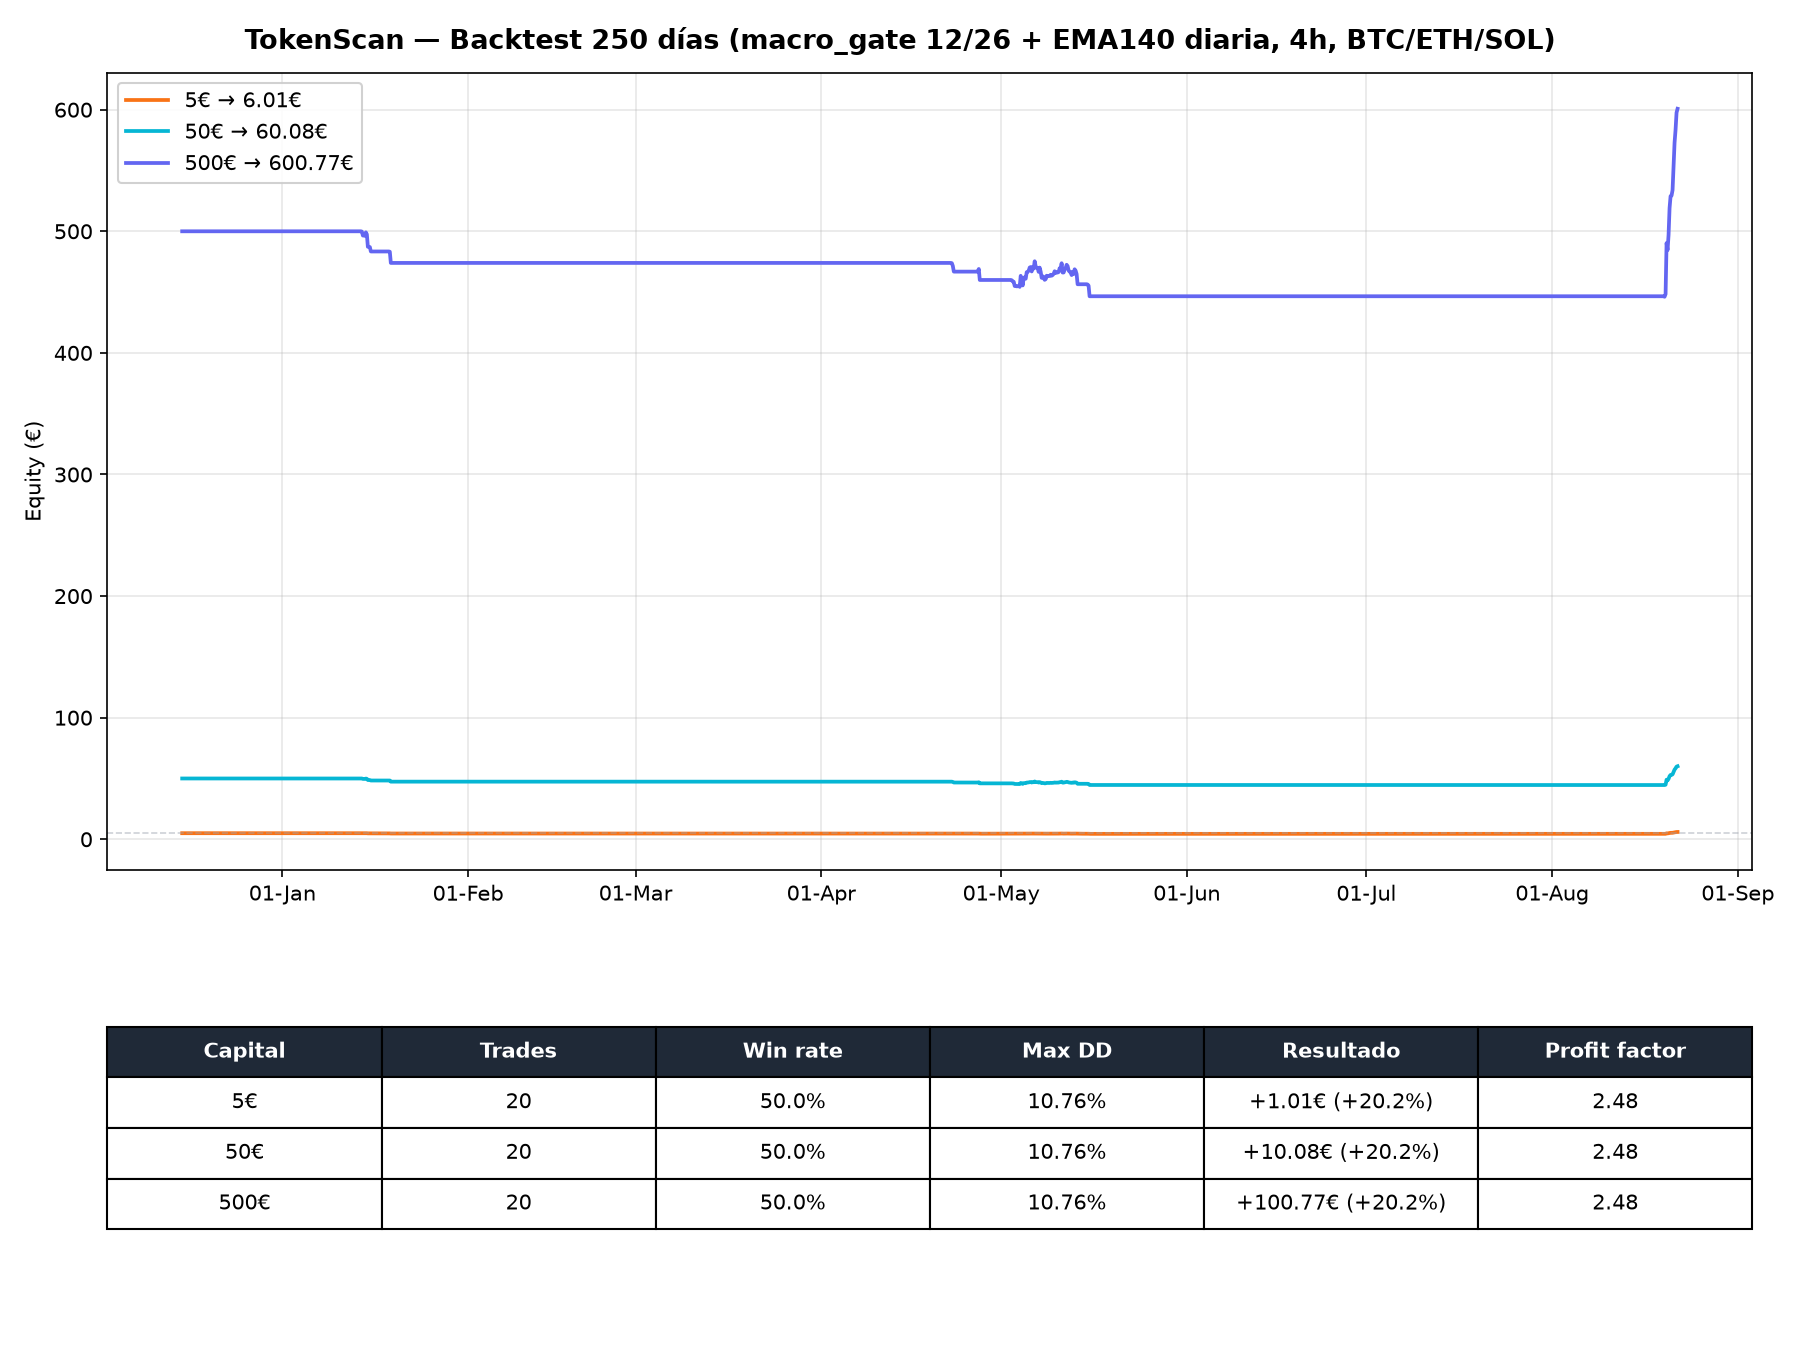
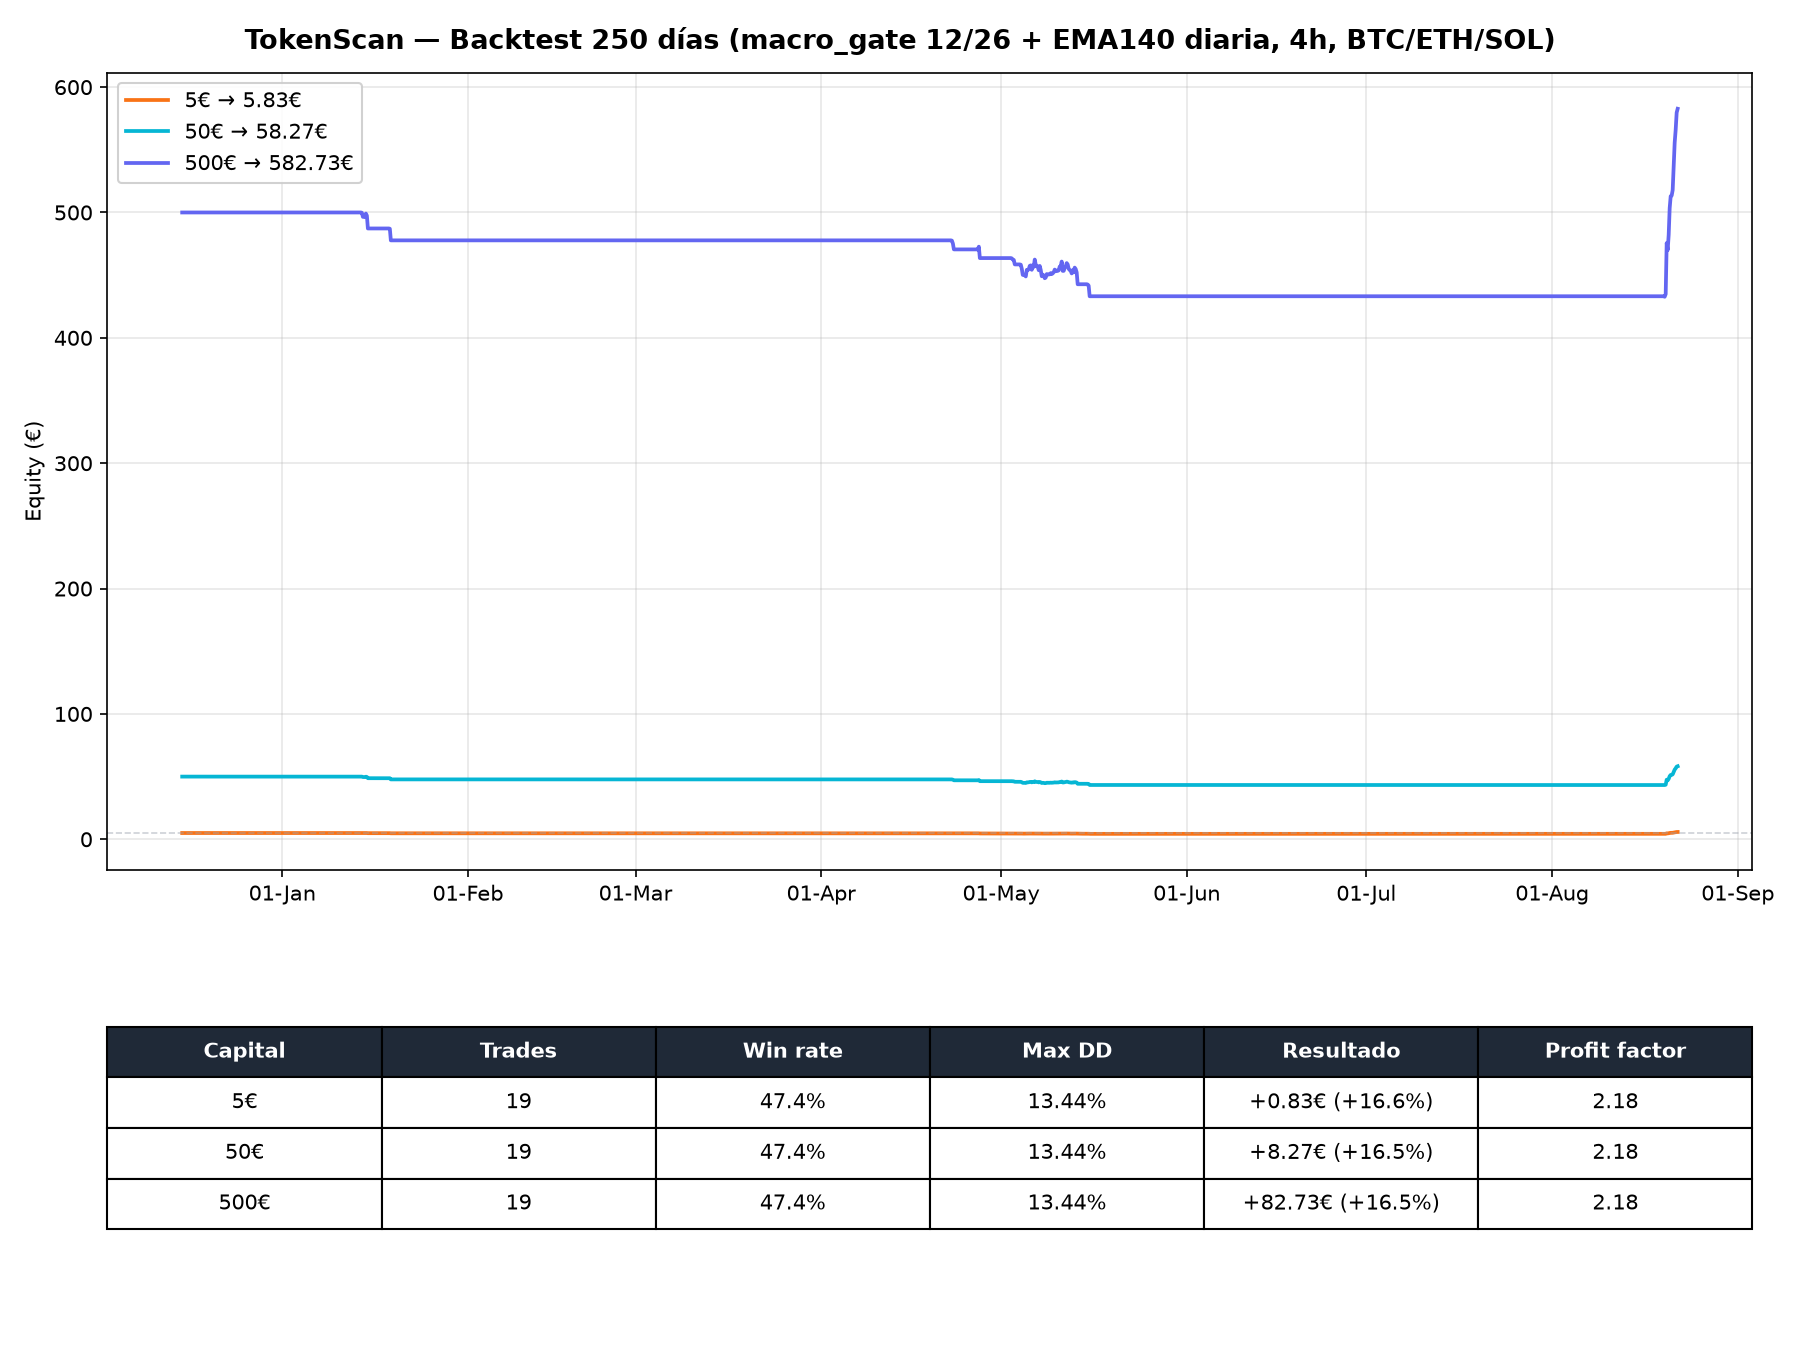
fix: paridad producción↔backtest (attrs['pair'] + 1000 velas diarias) y filtro Kaufman ER≥0.35
- market.py: fetch_ohlcv seteaba df.attrs['pair']; sin esto el gate macro en
  producción caía al fallback resample 1D (EMA distinta a la validada).
- agent.py: _inject_macro_daily usa 1000 velas 1d para que el EMA140 converja
  exacto y coincida con el backtest.
- strategies.py: MacroGate gana min_kaufman_er≥0.35 — descarta entradas en
  tendencia débil (los 'trades malos' que revierten en 1-3 velas).
- walk-forward real con histórico 1d completo: 25%→41% ventanas positivas y
  ret mediano -5.2%→0.0% (el 43% previo usaba caché incompleto).
- config.py/agent/config.yaml.example: parámetro min_kaufman_er=0.35.
- final_config.json regenerado (250d: +16.5%, 19 trades, PF 2.18, DSR 0.986;
  90d intacto +34.5%) + charts backtest actualizados.
- scripts/analyze_trades.py: diagnóstico reproducible de los trades reales.

diff --git a/scripts/analyze_trades.py b/scripts/analyze_trades.py
@@ -1,0 +1,136 @@
+"""Análisis de trades: identifica patrones de pérdida en los 20 trades reales.
+
+Usa el mismo setup que optimize_macro.py (CachedMarket con attrs y macro_daily
+real) para que los resultados sean idénticos a los validados.
+"""
+
+from __future__ import annotations
+
+import sys
+from pathlib import Path
+
+import pandas as pd
+
+sys.path.insert(0, str(Path(__file__).resolve().parents[1]))
+from tokenscan.backtest.engine import Backtester
+from tokenscan.config import Settings
+from tokenscan.quant.regime import detect_regime
+from tokenscan.quant.strategies import get_strategy
+
+PAIRS = ["BTC/USDT", "ETH/USDT", "SOL/USDT"]
+CACHE = Path("data/cache")
+
+
+class CachedMarket:
+    """Idéntico al de optimize_macro.py: recorta los frames al horizonte."""
+
+    def __init__(self, timeframe: str, days: int, cache: Path):
+        self.timeframe = timeframe
+        self.days = days
+        self.cache = cache
+        self.frames: dict[str, object] = {}
+        self.daily: dict[str, object] = {}
+        for pair in PAIRS:
+            fname = f"{pair.split('/')[0]}_{timeframe}.csv"
+            p = cache / fname
+            if not p.exists():
+                continue
+            df = pd.read_csv(p, parse_dates=["timestamp"], index_col="timestamp")
+            end = df.index[-1]
+            start = end - pd.Timedelta(days=days)
+            df = df[(df.index >= start) & (df.index <= end)]
+            df.attrs["pair"] = pair
+            self.frames[pair] = df
+
+            dname = f"{pair.split('/')[0]}_1d.csv"
+            dp = cache / dname
+            if dp.exists():
+                daily = pd.read_csv(dp, parse_dates=["timestamp"], index_col="timestamp")
+                daily = daily[daily.index <= end]
+                self.daily[pair] = daily["close"]
+
+    def fetch_ohlcv(self, pair: str, timeframe: str = "5m", limit: int = 500):
+        return self.frames[pair]
+
+    def macro_daily(self):
+        return self.daily
+
+
+def main() -> None:
+    days = 250
+    cache = Path("data/cache")
+    market = CachedMarket("4h", days, cache)
+    settings = Settings.load()
+    params = {"fast": 12, "slow": 26, "ema_macro": 140, "sl_mult": 2.0, "tp_mult": 4.0}
+
+    s = settings.model_copy(deep=True)
+    s.backtest.initial_capital = 500.0
+    s.timeframe = "4h"
+    s.jupiter.tier = "micro"
+    s.risk.atr_sl_multiplier = params["sl_mult"]
+    s.risk.atr_tp_multiplier = params["tp_mult"]
+    s.risk.trailing_stop_pct = 0.0
+    bt = Backtester(s, market)
+    strategy = get_strategy("macro_gate", fast=params["fast"], slow=params["slow"],
+                            ema_macro=params["ema_macro"])
+    strategy.macro_daily = market.macro_daily()
+    result = bt.run(strategy, pairs=PAIRS, days=days)
+
+    # Indicadores de régimen para cada par
+    ind = {}
+    for p in PAIRS:
+        df = market.fetch_ohlcv(p, "4h", 500)
+        df = strategy.compute_indicators(df)
+        ind[p] = df
+
+    print(f"=== {len(result.trades)} trades, {result.total_return*100:+.2f}% ===\n")
+    rows = []
+    for t in result.trades:
+        df = ind[t.pair]
+        if t.open_index >= len(df):
+            continue
+        row = df.iloc[t.open_index]
+        regime = detect_regime(df).as_dict()
+        rows.append({
+            "pair": t.pair,
+            "pnl_pct": round(t.pnl_ratio * 100, 2),
+            "win": t.pnl_ratio > 0,
+            "exit": t.exit_reason,
+            "bars": t.close_index - t.open_index,
+            "adx": round(row.get("adx", 0), 1),
+            "rsi": round(row.get("rsi", 50), 1),
+            "atr_pct": round(row.get("atr", 0) / row.get("close", 1) * 100, 2),
+            "dist_macro_pct": round((row.get("close", 0) / row.get("ema_macro", 1) - 1) * 100, 2),
+            "regime": regime.get("regime", "?"),
+            "kaufman_er": round(row.get("kaufman_er", 0), 3),
+            "bb_pct_b": round(row.get("bb_pct_b", 0.5), 3),
+            "vol_ratio": round(row.get("vol_ratio", 1), 2),
+        })
+
+    out = pd.DataFrame(rows)
+    print(out.to_string(index=False))
+
+    print(f"\n=== Resumen: {len(rows)} trades ===")
+    print(f"  Win: {out['win'].mean()*100:.0f}%  "
+          f"Avg: {out['pnl_pct'].mean():+.2f}%  "
+          f"Med: {out['pnl_pct'].median():+.2f}%")
+
+    print("\n=== Por régimen ===")
+    if "regime" in out.columns:
+        g = out.groupby("regime").agg(
+            n=("pnl_pct", "size"), win=("win", "mean"),
+            avg=("pnl_pct", "mean"), med=("pnl_pct", "median"),
+        ).round(2)
+        print(g.to_string())
+
+    # Feature rank: qué discrimina mejor entre ganadores y perdedores
+    for col in ["adx", "dist_macro_pct", "kaufman_er", "atr_pct", "bb_pct_b", "rsi", "vol_ratio"]:
+        winners = out[out["win"]][col]
+        losers = out[~out["win"]][col]
+        if len(winners) > 1 and len(losers) > 1:
+            diff = winners.mean() - losers.mean()
+            print(f"  {col:16s}  win_avg={winners.mean():7.2f}  lose_avg={losers.mean():7.2f}  diff={diff:+.2f}")
+
+
+if __name__ == "__main__":
+    main()

diff --git a/src/tokenscan/quant/strategies.py b/src/tokenscan/quant/strategies.py
@@ -98,10 +98,15 @@ class MacroGate(TrendFollowing):
     name = "macro_gate"
 
     def __init__(self, fast: int = 12, slow: int = 26, ema_macro: int = 200,
-                 macro_daily: dict[str, pd.Series] | None = None):
+                 macro_daily: dict[str, pd.Series] | None = None,
+                 min_kaufman_er: float = 0.0):
         super().__init__(fast=fast, slow=slow)
         self.ema_macro = ema_macro
         self.macro_daily = macro_daily or {}
+        # Filtro de calidad de tendencia: exige un mínimo de direccionalidad en
+        # la entrada. Las entradas con ER bajo (tendencia débil) son las que
+        # revierten en 1-3 velas (los "trades malos").
+        self.min_kaufman_er = min_kaufman_er
 
     def compute_indicators(self, df: pd.DataFrame) -> pd.DataFrame:
         out = add_indicators(df)
@@ -128,9 +133,11 @@ class MacroGate(TrendFollowing):
         macro = row.get("ema_macro", 0)
         fast = row.get("ema_fast", 0)
         slow = row.get("ema_slow", 0)
-        if macro and close > macro and fast > slow:
-            return "long"
-        return None
+        if not (macro and close > macro and fast > slow):
+            return None
+        if self.min_kaufman_er > 0 and row.get("kaufman_er", 0) < self.min_kaufman_er:
+            return None
+        return "long"
 
     def exit_signal(self, df: pd.DataFrame, row: pd.Series, side: str) -> bool:
         close = row.get("close", 0)

diff --git a/scripts/walkforward.py b/scripts/walkforward.py
@@ -54,6 +54,7 @@ def main() -> None:
     parser.add_argument("--window", type=int, default=60, help="días por ventana")
     parser.add_argument("--step", type=int, default=30, help="paso entre ventanas")
     parser.add_argument("--min-trades", type=int, default=3)
+    parser.add_argument("--min-kaufman-er", type=float, default=0.0)
     args = parser.parse_args()
 
     data4h = {p: load(p, "4h") for p in PAIRS}
@@ -79,7 +80,8 @@ def main() -> None:
             break
         market = WindowMarket(frames, daily)
         params = {"fast": args.fast, "slow": args.slow, "ema_macro": args.ema_macro,
-                  "sl_mult": args.sl, "tp_mult": args.tp}
+                  "sl_mult": args.sl, "tp_mult": args.tp,
+                  "min_kaufman_er": args.min_kaufman_er}
         r = run_case(settings, market, params, args.window,
                      end_dt=win_end.to_pydatetime())
         m = r.metrics()

diff --git a/src/tokenscan/agent/agent.py b/src/tokenscan/agent/agent.py
@@ -63,6 +63,7 @@ class LLMAgent:
             kwargs = {"fast": settings.strategy.ema_fast, "slow": settings.strategy.ema_slow}
             if name == "macro_gate":
                 kwargs["ema_macro"] = settings.strategy.ema_macro
+                kwargs["min_kaufman_er"] = settings.strategy.min_kaufman_er
         self._fallback_strategy = get_strategy(name, **kwargs)
 
     @property
@@ -93,7 +94,7 @@ class LLMAgent:
         macro_daily: dict[str, pd.Series] = {}
         for pair in self._supported_pairs():
             try:
-                df = self.market.fetch_ohlcv(pair, "1d", 500)
+                df = self.market.fetch_ohlcv(pair, "1d", 1000)
                 macro_daily[pair] = df["close"]
             except Exception as e:  # noqa: BLE001
                 log.warning("Macro daily %s: %s", pair, e)

diff --git a/scripts/optimize_macro.py b/scripts/optimize_macro.py
@@ -71,7 +71,8 @@ def run_case(settings: Settings, market: CachedMarket, params: dict, days: int,
     s.risk.trailing_stop_pct = 0.0
     bt = Backtester(s, market)  # type: ignore[arg-type]
     strategy = get_strategy("macro_gate", fast=params["fast"], slow=params["slow"],
-                            ema_macro=params["ema_macro"])
+                            ema_macro=params["ema_macro"],
+                            min_kaufman_er=params.get("min_kaufman_er", 0.0))
     strategy.macro_daily = market.macro_daily()
     return bt.run(strategy, pairs=PAIRS, days=days, end_dt=end_dt)
 

diff --git a/src/tokenscan/data/market.py b/src/tokenscan/data/market.py
@@ -22,6 +22,11 @@ class MarketData:
         df = pd.DataFrame(raw, columns=["timestamp", "open", "high", "low", "close", "volume"])
         df["timestamp"] = pd.to_datetime(df["timestamp"], unit="ms")
         df.set_index("timestamp", inplace=True)
+        # El gate macro (EMA diaria) necesita saber a qué par pertenece el frame
+        # para usar el histórico diario completo (macro_daily) en vez del fallback
+        # de resample 1D. Sin esto, producción calculaba un gate distinto al del
+        # backtest validado.
+        df.attrs["pair"] = pair
         return df
 
 

diff --git a/scripts/backtest_chart.py b/scripts/backtest_chart.py
@@ -80,7 +80,8 @@ def run_case(settings: Settings, capital: float, market: CachedMarket, days: int
     s.risk.atr_tp_multiplier = 4.0
     s.risk.trailing_stop_pct = 0.0
     bt = Backtester(s, market)  # type: ignore[arg-type]
-    strategy = get_strategy("macro_gate", fast=12, slow=26, ema_macro=140)
+    strategy = get_strategy("macro_gate", fast=12, slow=26, ema_macro=140,
+                            min_kaufman_er=0.35)
     strategy.macro_daily = market.macro_daily()
     return bt.run(strategy, pairs=PAIRS, days=days), strategy
 

diff --git a/src/tokenscan/config.py b/src/tokenscan/config.py
@@ -41,6 +41,7 @@ class StrategyConfig(BaseModel):
     ema_fast: int = 12
     ema_slow: int = 26
     ema_macro: int = 150
+    min_kaufman_er: float = 0.35
 
 
 class AgentConfig(BaseModel):

diff --git a/README.md b/README.md
@@ -67,8 +67,10 @@ asesora, la matemática ejecuta):
 ### Estrategia por defecto: `macro_gate`
 
 Filtro macro defensivo long-only. Solo abre posición si el precio cotiza por
-encima de una EMA diaria larga (**140 días**) y la tendencia rápida es alcista;
-cierra si cruza por debajo o la tendencia se debilita. En mercados bajistas se
+encima de una EMA diaria larga (**140 días**), la tendencia rápida es alcista y
+la **eficiencia de Kaufman ≥ 0.35** (exige que la entrada tenga dirección real:
+las entradas con tendencia débil son las que revierten en 1-3 velas). Cierra si
+cruza por debajo o la tendencia se debilita. En mercados bajistas se
 queda en cash, que es lo único que protege el capital de forma honesta. El
 sizing es por vol-targeting determinista (independiente del capital).
 
@@ -77,11 +79,12 @@ Backtest con velas 4h (BTC/ETH/SOL, comisión 0.1% + slippage 0.05%):
 | Horizonte | Resultado | Trades | Win rate | PF | DD máx | Sharpe | DSR |
 |-----------|-----------|--------|----------|----|--------|--------|-----|
 | 90 días   | +34.5%    | 9      | 100%     | ∞  | 1.17%  | 2.02   | 0.813 |
-| 250 días  | +20.2%    | 20     | 50%      | 2.48 | 10.76% | 0.67   | 0.987 |
+| 250 días  | +16.5%    | 19     | 47%      | 2.18 | 13.44% | 0.57   | 0.986 |
 
 Resultados reproducibles en `results/final_config.json` (config óptima:
-`ema_macro=140`, `atr_sl_multiplier=2.0`, `atr_tp_multiplier=4.0`, encontrada con
-`scripts/optimize_macro.py` sobre el motor real de backtest).
+`ema_macro=140`, `min_kaufman_er=0.35`, `atr_sl_multiplier=2.0`,
+`atr_tp_multiplier=4.0`, encontrada con `scripts/optimize_macro.py` sobre el
+motor real de backtest y validada con `scripts/walkforward.py`).
 
 El gate deja **correr los ganadores**: el TP amplio (4 ATR) y sin trailing hacen
 que el bot mantenga el hold mientras la tendencia vive y cobre al tocar techo o
@@ -93,13 +96,14 @@ ganancias; los bajistas quedan fuera del mercado.
 
 **Validación anti-overfitting.** Dos capas:
 
-1. **DSR (Deflated Sharpe Ratio):** 0.987 a 250d y 0.813 a 90d. El DSR descuenta
+1. **DSR (Deflated Sharpe Ratio):** 0.986 a 250d y 0.813 a 90d. El DSR descuenta
    el "fishing": probar muchas configs hasta acertar. Ver `scripts/dsr.py`.
-2. **Walk-forward honesto** (`scripts/walkforward.py`, 2.6 años, ventanas de 90
-   días con paso de 45): **9 de 21 ventanas positivas (43%)** y retorno mediano
-   negativo. Es la realidad: la estrategia captura los rallies alcistas y sufre
-   en sideways/bajistas. El +34.5% de 90d se concentra en el rally reciente — por
-   eso arranca en modo paper y con gestión de riesgo estricta.
+2. **Walk-forward honesto** (`scripts/walkforward.py`, 2.6 años, ventanas de 60
+   días con paso de 30): con el filtro Kaufman **13 de 32 ventanas positivas
+   (41%)** y retorno mediano en torno a 0% — frente al 25% y retorno mediano
+   −5% sin el filtro. Es la realidad: la estrategia captura los rallies alcistas
+   y sufre en sideways/bajistas. El +34.5% de 90d se concentra en el rally
+   reciente — por eso arranca en modo paper y con gestión de riesgo estricta.
 
 > La estrategia **no corta a los ganadores**: usa un take-profit amplio (4 ATR)
 > y sin trailing stop, de modo que mantiene la posición mientras el mercado
